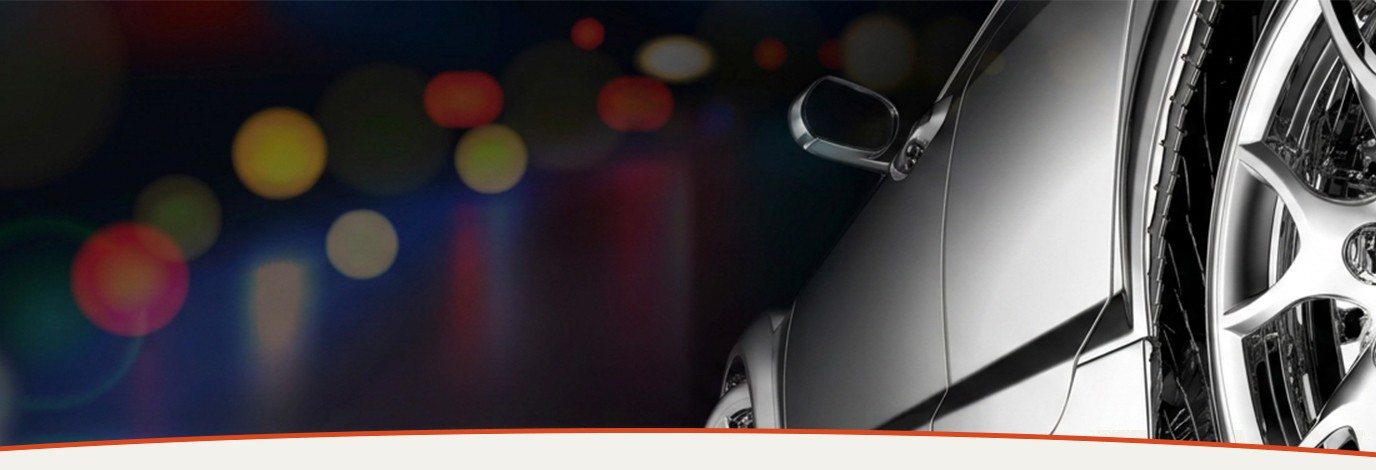
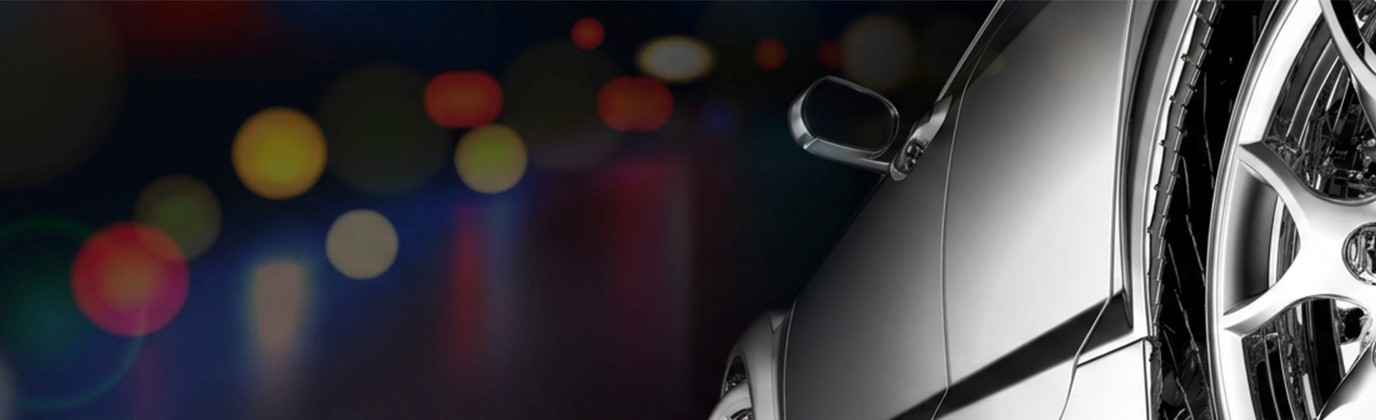
Update

diff --git a/css/styles.css b/css/styles.css
@@ -114,7 +114,6 @@ nav.links a[aria-current="page"]{color:var(--text-hi);border-color:var(--accent)
 
 /* HERO PHOTO BAND (home) */
 .hero-photo{position:relative;color:var(--text-hi);aspect-ratio:1376/470;background-size:cover;background-position:center;overflow:hidden;}
-.hero-photo::after{content:"";position:absolute;inset:0;background:linear-gradient(100deg,rgba(11,12,15,.86) 0%,rgba(11,12,15,.55) 46%,rgba(11,12,15,.18) 100%);}
 .hero-photo .inner{position:relative;z-index:2;height:100%;display:flex;flex-direction:column;justify-content:center;padding:48px 0;}
 .hero-photo .headline{font-size:56px;line-height:0.98;max-width:640px;}
 .hero-photo .meta-row{display:flex;gap:26px;flex-wrap:wrap;margin-top:24px;}

diff --git a/index.html b/index.html
@@ -1,4 +1,3 @@
-
 <!DOCTYPE html>
 <html lang="en">
 <head>
